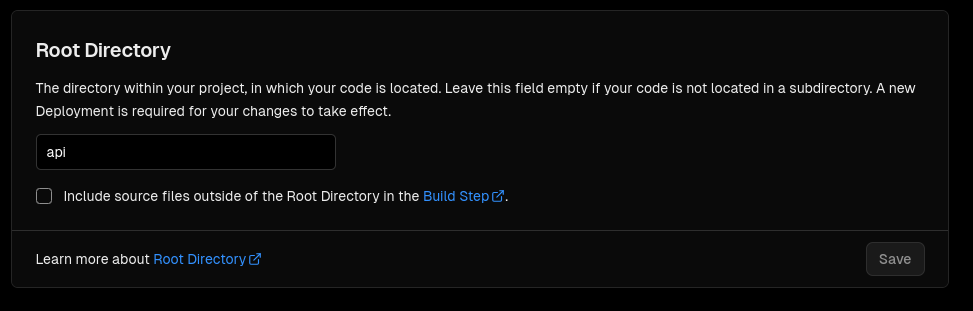
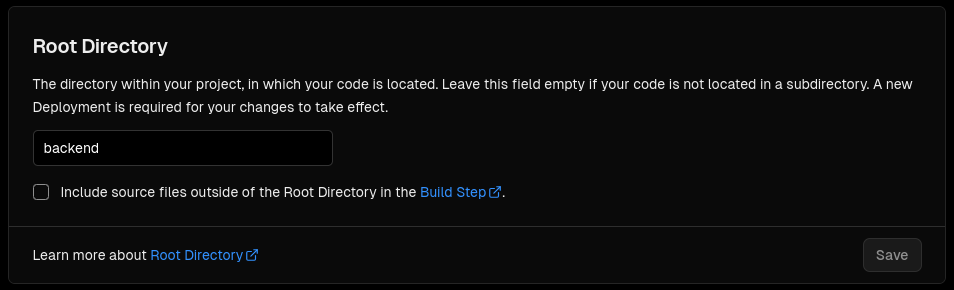
[UPT] Update README.md according to new folder structure.

diff --git a/README.md b/README.md
@@ -84,12 +84,12 @@ Everytime you push to the `main` branch, the action will run and deploy the fron
 
 ### Backend
 
-I personally recommend Vercel for the backend, as it is the easiest to set up and use and it's free for personal projects. The [vercel.json](./vercel.json) file is already set up for this, but you're gonna need to change the root directory to your api directory in Vercel:
+I personally recommend Vercel for the backend, as it is the easiest to set up and use and it's free for personal projects. The [vercel.json](./vercel.json) file is already set up for this, but you're gonna need to change the root directory to your backend directory in Vercel:
 ![API root folder image](./docs/images/api-root-folder.png)
 
 Make sure to add any environment variables you create for your API in the Environment Variables section of the Vercel Project Settings.
 
-Obs.: The backend packages are locally managed with `poetry`, but, for simplicity in Vercel deployment, the `requirements.txt` file is present in the folder as well. You can generate the `requirements.txt` file with the command `poetry export -f requirements.txt --output requirements.txt --without-hashes` in the `api` directory. If you use the pre-commit hook, it will automatically generate the `requirements.txt` file for you when you commit.
+Obs.: The backend packages are locally managed with `poetry`, but, for simplicity in Vercel deployment, the `requirements.txt` file is present in the folder as well. You can generate the `requirements.txt` file with the command `poetry export -f requirements.txt --output requirements.txt --without-hashes` in the `backend` directory. If you use the pre-commit hook, it will automatically generate the `requirements.txt` file for you when you commit.
 
 ## Compatibility
 
